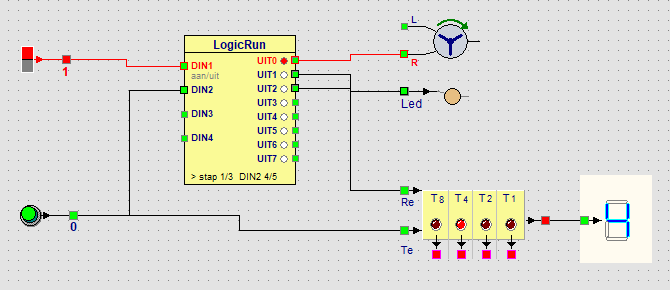
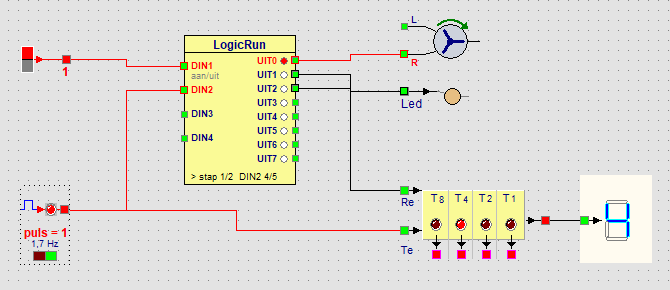
Impulsgenerator met instelbare frequentie, les 14 automatisch
- impulsgenerator: frequentie via rechtsklik (0,5 - 5 Hz), op het
  onderdeel getoond en als extra veld in de .lpl bewaard
- les 14: impulsgenerator in plaats van drukknop, programma in 2 stappen
- LogicRun: "N pulsen" gaat verder als de laatste puls voorbij is
- teller: reset gaat voor op een telpuls in dezelfde simulatieronde
- help in 4 talen

diff --git a/projects/LogicCEF/helpsrc/fr/les14.html b/projects/LogicCEF/helpsrc/fr/les14.html
@@ -6,7 +6,7 @@
 
   <p><a class="open" href="../../panels/lessen/les14-inpakmachine.lpl">&#9654; Ouvrir cet exemple</a></p>
   <figure>
-    <img src="../img/les14-inpakmachine.png" alt="Emballeuse avec LogicRun, moteur, LED, compteur et afficheur">
+    <img src="../img/les14-inpakmachine.png" alt="Emballeuse avec générateur d'impulsions, LogicRun, moteur, LED, compteur et afficheur">
     <figcaption>Le tapis tourne ; 4 boîtes ont déjà été comptées.</figcaption>
   </figure>
 
@@ -14,9 +14,9 @@
   <ul>
     <li>Un <a href="invoer.html#schakelaar">interrupteur</a> sur <b>DIN1</b> (fonction <b>actif/inactif</b>) : la machine
       en marche ou à l&rsquo;arrêt.</li>
-    <li>Un <a href="invoer.html#drukknop">bouton-poussoir</a> : chaque appui est une <b>boîte</b> qui passe. Le bouton a
-      deux fils : vers <b>DIN2</b> de LogicRun et vers <b>Te</b> du <a href="verwerking.html#teller">compteur</a>.
-      Une sortie peut avoir plusieurs fils.</li>
+    <li>Un <a href="invoer.html#puls">générateur d&rsquo;impulsions</a> : chaque impulsion est une <b>boîte</b> qui passe,
+      toute seule, sans rien presser. Le générateur a deux fils : vers <b>DIN2</b> de LogicRun et vers <b>Te</b> du
+      <a href="verwerking.html#teller">compteur</a>. Une sortie peut avoir plusieurs fils.</li>
     <li>Le <a href="logicrun.html">bloc LogicRun</a> avec trois sorties :
       <b>UIT0</b> vers <b>R</b> du <a href="uitvoer.html#motor">moteur</a> (le tapis roulant),
       <b>UIT1</b> vers une <a href="uitvoer.html#led">LED</a> orange (emballage) et
@@ -28,30 +28,33 @@
   <table>
     <tr><th>Pas</th><th>Actif</th><th>Que se passe-t-il ?</th><th>Combien de temps ?</th></tr>
     <tr><td>1</td><td>UIT0</td><td>le tapis tourne</td><td><b>attendre 5 x DIN2</b> : jusqu&rsquo;à ce que 5 boîtes soient passées</td></tr>
-    <tr><td>2</td><td>UIT1</td><td>le tapis s&rsquo;arrête, la LED est allumée : emballage</td><td>4 x 500&nbsp;ms = 2 secondes</td></tr>
-    <tr><td>3</td><td>UIT2</td><td>le compteur revient à 0</td><td>1 x 500&nbsp;ms</td></tr>
+    <tr><td>2</td><td>UIT1 + UIT2</td><td>le tapis s&rsquo;arrête, la LED est allumée (emballage) et le compteur est à 0</td><td>4 x 500&nbsp;ms = 2 secondes</td></tr>
   </table>
   <p>Le pas 1 n&rsquo;a pas de durée fixe : la colonne <b>attendre</b> indique <b>5 x DIN2</b>. Le programme compte les
-  impulsions sur DIN2 et ne continue qu&rsquo;à la cinquième (voir <a href="logicrun.html#wacht">Attendre</a>). En haut de
-  la fenêtre et en bas du bloc, vous voyez combien ont déjà été comptées, par exemple <i>DIN2 4/5</i>.</p>
+  impulsions sur DIN2 et continue dès que la cinquième impulsion est terminée (voir <a href="logicrun.html#wacht">Attendre</a>).
+  En haut de la fenêtre et en bas du bloc, vous voyez combien ont déjà été comptées, par exemple <i>DIN2 4/5</i>.</p>
+  <p>Au pas 2, <b>Re</b> du compteur est haut tout le temps. Tant que Re est haut, le compteur reste à 0 : les impulsions
+  que le générateur donne entre-temps ne sont pas comptées. Ainsi, le compteur recommence proprement à 1 avec la boîte
+  suivante.</p>
 
   <h2>Essayez</h2>
   <ol class="steps">
     <li>Lancez la simulation et fermez l&rsquo;interrupteur : le tapis tourne.</li>
-    <li>Appuyez cinq fois sur le bouton-poussoir. L&rsquo;afficheur compte.</li>
-    <li>Après la cinquième boîte, le tapis s&rsquo;arrête et la LED s&rsquo;allume pendant 2 secondes. Ensuite, le
-      compteur revient à 0 et le tapis tourne à nouveau.</li>
+    <li>Cliquez sur le petit bouton sous le générateur d&rsquo;impulsions : les boîtes arrivent. L&rsquo;afficheur compte.</li>
+    <li>Après la cinquième boîte, le tapis s&rsquo;arrête, la LED s&rsquo;allume pendant 2 secondes et l&rsquo;afficheur
+      indique 0. Ensuite, le tapis tourne à nouveau et le comptage recommence.</li>
+    <li>Ouvrez l&rsquo;interrupteur : la machine s&rsquo;arrête.</li>
   </ol>
 
   <h2>Exercice</h2>
   <p>Faites des boîtes de 3 au lieu de 5. Faites ensuite redémarrer le tapis seulement quand quelqu&rsquo;un appuie sur un
-  deuxième bouton-poussoir <b>prêt</b>.</p>
+  bouton-poussoir <b>prêt</b>.</p>
   <details>
     <summary>Solution</summary>
     <p>Dans le pas 1, cliquez sur <b>5 x DIN2</b>, choisissez <b>Jusqu&rsquo;à un nombre d&rsquo;impulsions</b> &rsaquo;
-    <b>DIN2</b> et entrez 3. Ajoutez après le pas 3 un pas sans sorties et choisissez dans <b>attendre</b> :
-    <b>Jusqu&rsquo;à entrée active</b> &rsaquo; <b>DIN3</b>. Placez un deuxième bouton-poussoir sur le panneau et reliez-le
-    à DIN3. Laissez DIN3 sur <b>-</b> dans les fonctions des entrées.</p>
+    <b>DIN2</b> et entrez 3. Ajoutez après le pas 2 un pas avec seulement <b>UIT2</b> actif (le compteur reste alors à 0)
+    et choisissez dans <b>attendre</b> : <b>Jusqu&rsquo;à entrée active</b> &rsaquo; <b>DIN3</b>. Placez un bouton-poussoir
+    sur le panneau et reliez-le à DIN3. Laissez DIN3 sur <b>-</b> dans les fonctions des entrées.</p>
   </details>
 
   <div class="pager"><a href="les13.html">&larr; Leçon 13 : Commander un moteur</a><a href="leerpad.html">Parcours &rarr;</a></div>

diff --git a/projects/LogicCEF/helpsrc/de/les14.html b/projects/LogicCEF/helpsrc/de/les14.html
@@ -6,16 +6,16 @@
 
   <p><a class="open" href="../../panels/lessen/les14-inpakmachine.lpl">&#9654; Dieses Beispiel öffnen</a></p>
   <figure>
-    <img src="../img/les14-inpakmachine.png" alt="Verpackungsmaschine mit LogicRun, Motor, LED, Zähler und Anzeige">
+    <img src="../img/les14-inpakmachine.png" alt="Verpackungsmaschine mit Impulsgeber, LogicRun, Motor, LED, Zähler und Anzeige">
     <figcaption>Das Band läuft; 4 Kartons sind schon gezählt.</figcaption>
   </figure>
 
   <h2>Was sehen Sie?</h2>
   <ul>
     <li>Ein <a href="invoer.html#schakelaar">Schalter</a> an <b>DIN1</b> (Funktion <b>Ein/Aus</b>): die Maschine ein oder aus.</li>
-    <li>Ein <a href="invoer.html#drukknop">Taster</a>: jeder Druck ist ein <b>Karton</b>, der vorbeikommt. Der Taster hat
-      zwei Drähte: zu <b>DIN2</b> von LogicRun und zu <b>Te</b> des <a href="verwerking.html#teller">Zählers</a>.
-      Ein Ausgang darf mehrere Drähte haben.</li>
+    <li>Ein <a href="invoer.html#puls">Impulsgeber</a>: jeder Impuls ist ein <b>Karton</b>, der vorbeikommt, ganz von
+      selbst, ohne zu drücken. Der Impulsgeber hat zwei Drähte: zu <b>DIN2</b> von LogicRun und zu <b>Te</b> des
+      <a href="verwerking.html#teller">Zählers</a>. Ein Ausgang darf mehrere Drähte haben.</li>
     <li>Der <a href="logicrun.html">LogicRun-Block</a> mit drei Ausgängen:
       <b>UIT0</b> an <b>R</b> des <a href="uitvoer.html#motor">Motors</a> (das Förderband),
       <b>UIT1</b> an eine orange <a href="uitvoer.html#led">LED</a> (Verpacken) und
@@ -27,30 +27,33 @@
   <table>
     <tr><th>Schritt</th><th>Ein</th><th>Was passiert?</th><th>Wie lange?</th></tr>
     <tr><td>1</td><td>UIT0</td><td>das Band läuft</td><td><b>warten auf 5 x DIN2</b>: bis 5 Kartons vorbei sind</td></tr>
-    <tr><td>2</td><td>UIT1</td><td>das Band steht, die LED leuchtet: Verpacken</td><td>4 x 500&nbsp;ms = 2 Sekunden</td></tr>
-    <tr><td>3</td><td>UIT2</td><td>der Zähler geht zurück auf 0</td><td>1 x 500&nbsp;ms</td></tr>
+    <tr><td>2</td><td>UIT1 + UIT2</td><td>das Band steht, die LED leuchtet (Verpacken) und der Zähler steht auf 0</td><td>4 x 500&nbsp;ms = 2 Sekunden</td></tr>
   </table>
   <p>Schritt 1 hat keine feste Zeit: in der Spalte <b>warten auf</b> steht <b>5 x DIN2</b>. Das Programm zählt die Impulse
-  an DIN2 und geht erst beim fünften weiter (siehe <a href="logicrun.html#wacht">Warten</a>). Oben im Fenster und unten
-  im Block sehen Sie, wie viele schon gezählt sind, zum Beispiel <i>DIN2 4/5</i>.</p>
+  an DIN2 und geht weiter, sobald der fünfte Impuls vorbei ist (siehe <a href="logicrun.html#wacht">Warten</a>). Oben im
+  Fenster und unten im Block sehen Sie, wie viele schon gezählt sind, zum Beispiel <i>DIN2 4/5</i>.</p>
+  <p>In Schritt 2 ist <b>Re</b> des Zählers die ganze Zeit hoch. Solange Re hoch ist, bleibt der Zähler auf 0: die Impulse,
+  die der Impulsgeber in der Zwischenzeit gibt, zählen nicht mit. So beginnt der Zähler beim nächsten Karton wieder sauber
+  bei 1.</p>
 
   <h2>Probieren Sie es</h2>
   <ol class="steps">
     <li>Starten Sie die Simulation und schalten Sie den Schalter ein: das Band läuft.</li>
-    <li>Drücken Sie fünfmal den Taster. Die Anzeige zählt mit.</li>
-    <li>Nach dem fünften Karton hält das Band an und die LED leuchtet 2 Sekunden. Danach geht der Zähler zurück auf 0 und
-      das Band läuft wieder.</li>
+    <li>Klicken Sie auf den kleinen Knopf unter dem Impulsgeber: die Kartons kommen. Die Anzeige zählt mit.</li>
+    <li>Nach dem fünften Karton hält das Band an, die LED leuchtet 2 Sekunden und die Anzeige steht auf 0. Danach läuft
+      das Band wieder und das Zählen beginnt von vorn.</li>
+    <li>Schalten Sie den Schalter aus: die Maschine hält an.</li>
   </ol>
 
   <h2>Aufgabe</h2>
-  <p>Machen Sie Kartons zu 3 statt zu 5. Lassen Sie das Band danach erst wieder starten, wenn jemand einen zweiten Taster
+  <p>Machen Sie Kartons zu 3 statt zu 5. Lassen Sie das Band danach erst wieder starten, wenn jemand einen Taster
   <b>fertig</b> drückt.</p>
   <details>
     <summary>Lösung</summary>
     <p>Klicken Sie in Schritt 1 auf <b>5 x DIN2</b>, wählen Sie <b>Bis Anzahl Impulse am Eingang</b> &rsaquo; <b>DIN2</b>
-    und geben Sie 3 ein. Fügen Sie nach Schritt 3 einen Schritt ohne Ausgänge ein und wählen Sie bei <b>warten auf</b>:
-    <b>Bis Eingang ein</b> &rsaquo; <b>DIN3</b>. Setzen Sie einen zweiten Taster auf das Panel und verbinden Sie ihn mit
-    DIN3. Lassen Sie DIN3 bei den Eingangsfunktionen auf <b>-</b>.</p>
+    und geben Sie 3 ein. Fügen Sie nach Schritt 2 einen Schritt ein, in dem nur <b>UIT2</b> an ist (dann bleibt der Zähler
+    auf 0), und wählen Sie bei <b>warten auf</b>: <b>Bis Eingang ein</b> &rsaquo; <b>DIN3</b>. Setzen Sie einen Taster auf
+    das Panel und verbinden Sie ihn mit DIN3. Lassen Sie DIN3 bei den Eingangsfunktionen auf <b>-</b>.</p>
   </details>
 
   <div class="pager"><a href="les13.html">&larr; Lektion 13: Einen Motor steuern</a><a href="leerpad.html">Lernpfad &rarr;</a></div>

diff --git a/projects/LogicCEF/helpsrc/en/les14.html b/projects/LogicCEF/helpsrc/en/les14.html
@@ -6,16 +6,16 @@
 
   <p><a class="open" href="../../panels/lessen/les14-inpakmachine.lpl">&#9654; Open this example</a></p>
   <figure>
-    <img src="../img/les14-inpakmachine.png" alt="Packing machine with LogicRun, motor, LED, counter and display">
+    <img src="../img/les14-inpakmachine.png" alt="Packing machine with pulse generator, LogicRun, motor, LED, counter and display">
     <figcaption>The belt is running; 4 boxes have been counted already.</figcaption>
   </figure>
 
   <h2>What do you see?</h2>
   <ul>
     <li>A <a href="invoer.html#schakelaar">switch</a> on <b>DIN1</b> (function <b>on/off</b>): the machine on or off.</li>
-    <li>A <a href="invoer.html#drukknop">push button</a>: each press is a <b>box</b> passing by. The push button has
-      two wires: to <b>DIN2</b> of LogicRun and to <b>Te</b> of the <a href="verwerking.html#teller">counter</a>.
-      An output may have several wires.</li>
+    <li>A <a href="invoer.html#puls">pulse generator</a>: each pulse is a <b>box</b> passing by, all by itself, without
+      pressing anything. The generator has two wires: to <b>DIN2</b> of LogicRun and to <b>Te</b> of the
+      <a href="verwerking.html#teller">counter</a>. An output may have several wires.</li>
     <li>The <a href="logicrun.html">LogicRun block</a> with three outputs:
       <b>UIT0</b> to <b>R</b> of the <a href="uitvoer.html#motor">motor</a> (the conveyor belt),
       <b>UIT1</b> to an orange <a href="uitvoer.html#led">LED</a> (packing) and
@@ -27,29 +27,32 @@
   <table>
     <tr><th>Step</th><th>On</th><th>What happens?</th><th>How long?</th></tr>
     <tr><td>1</td><td>UIT0</td><td>the belt runs</td><td><b>wait for 5 x DIN2</b>: until 5 boxes have passed</td></tr>
-    <tr><td>2</td><td>UIT1</td><td>the belt stops, the LED is lit: packing</td><td>4 x 500&nbsp;ms = 2 seconds</td></tr>
-    <tr><td>3</td><td>UIT2</td><td>the counter goes back to 0</td><td>1 x 500&nbsp;ms</td></tr>
+    <tr><td>2</td><td>UIT1 + UIT2</td><td>the belt stops, the LED is lit (packing) and the counter is at 0</td><td>4 x 500&nbsp;ms = 2 seconds</td></tr>
   </table>
   <p>Step 1 has no fixed time: the <b>wait for</b> column shows <b>5 x DIN2</b>. The program counts the pulses on DIN2
-  and only continues at the fifth (see <a href="logicrun.html#wacht">Waiting</a>). At the top of the window and at the
-  bottom of the block you see how many have been counted, for example <i>DIN2 4/5</i>.</p>
+  and continues as soon as the fifth pulse is over (see <a href="logicrun.html#wacht">Waiting</a>). At the top of the
+  window and at the bottom of the block you see how many have been counted, for example <i>DIN2 4/5</i>.</p>
+  <p>In step 2, <b>Re</b> of the counter is high all the time. As long as Re is high, the counter stays at 0: the pulses
+  the generator gives in the meantime are not counted. So the counter neatly starts at 1 again with the next box.</p>
 
   <h2>Try it</h2>
   <ol class="steps">
     <li>Start the simulation and switch the switch on: the belt runs.</li>
-    <li>Press the push button five times. The display counts along.</li>
-    <li>After the fifth box the belt stops and the LED is lit for 2 seconds. Then the counter goes back to 0 and the
-      belt runs again.</li>
+    <li>Click the small button under the pulse generator: the boxes arrive. The display counts along.</li>
+    <li>After the fifth box the belt stops, the LED is lit for 2 seconds and the display shows 0. Then the belt runs
+      again and counting starts over.</li>
+    <li>Switch the switch off: the machine stops.</li>
   </ol>
 
   <h2>Exercise</h2>
-  <p>Make boxes of 3 instead of 5. Then make the belt only start again when someone presses a second push button
+  <p>Make boxes of 3 instead of 5. Then make the belt only start again when someone presses a push button
   <b>ready</b>.</p>
   <details>
     <summary>Solution</summary>
     <p>In step 1 click <b>5 x DIN2</b>, choose <b>Until number of pulses on input</b> &rsaquo; <b>DIN2</b> and enter 3.
-    Add a step after step 3 without outputs and choose in <b>wait for</b>: <b>Until input on</b> &rsaquo; <b>DIN3</b>.
-    Put a second push button on the panel and connect it to DIN3. Leave DIN3 on <b>-</b> in the input functions.</p>
+    Add a step after step 2 with only <b>UIT2</b> on (so the counter stays at 0) and choose in <b>wait for</b>:
+    <b>Until input on</b> &rsaquo; <b>DIN3</b>. Put a push button on the panel and connect it to DIN3. Leave DIN3 on
+    <b>-</b> in the input functions.</p>
   </details>
 
   <div class="pager"><a href="les13.html">&larr; Lesson 13: Controlling a motor</a><a href="leerpad.html">Learning path &rarr;</a></div>

diff --git a/projects/LogicCEF/helpsrc/nl/les14.html b/projects/LogicCEF/helpsrc/nl/les14.html
@@ -6,16 +6,16 @@
 
   <p><a class="open" href="../../panels/lessen/les14-inpakmachine.lpl">&#9654; Open dit voorbeeld</a></p>
   <figure>
-    <img src="../img/les14-inpakmachine.png" alt="Inpakmachine met LogicRun, motor, led, teller en display">
+    <img src="../img/les14-inpakmachine.png" alt="Inpakmachine met impulsgenerator, LogicRun, motor, led, teller en display">
     <figcaption>De band draait; er zijn al 4 dozen geteld.</figcaption>
   </figure>
 
   <h2>Wat zie je?</h2>
   <ul>
     <li>Een <a href="invoer.html#schakelaar">schakelaar</a> op <b>DIN1</b> (functie <b>aan/uit</b>): de machine aan of uit.</li>
-    <li>Een <a href="invoer.html#drukknop">drukknop</a>: elke druk is een <b>doos</b> die voorbij komt. De drukknop heeft
-      twee draden: naar <b>DIN2</b> van LogicRun en naar <b>Te</b> van de <a href="verwerking.html#teller">teller</a>.
-      Een uitgang mag meerdere draden hebben.</li>
+    <li>Een <a href="invoer.html#puls">impulsgenerator</a>: elke puls is een <b>doos</b> die voorbij komt, vanzelf,
+      zonder dat je moet drukken. De generator heeft twee draden: naar <b>DIN2</b> van LogicRun en naar <b>Te</b> van de
+      <a href="verwerking.html#teller">teller</a>. Een uitgang mag meerdere draden hebben.</li>
     <li>Het <a href="logicrun.html">LogicRun-blok</a> met drie uitgangen:
       <b>UIT0</b> naar <b>R</b> van de <a href="uitvoer.html#motor">motor</a> (de lopende band),
       <b>UIT1</b> naar een oranje <a href="uitvoer.html#led">led</a> (inpakken) en
@@ -27,29 +27,32 @@
   <table>
     <tr><th>Stap</th><th>Aan</th><th>Wat gebeurt er?</th><th>Hoe lang?</th></tr>
     <tr><td>1</td><td>UIT0</td><td>de band draait</td><td><b>wacht op 5 x DIN2</b>: tot er 5 dozen voorbij zijn</td></tr>
-    <tr><td>2</td><td>UIT1</td><td>de band staat stil, de led brandt: inpakken</td><td>4 x 500&nbsp;ms = 2 seconden</td></tr>
-    <tr><td>3</td><td>UIT2</td><td>de teller gaat terug naar 0</td><td>1 x 500&nbsp;ms</td></tr>
+    <tr><td>2</td><td>UIT1 + UIT2</td><td>de band staat stil, de led brandt (inpakken) en de teller staat op 0</td><td>4 x 500&nbsp;ms = 2 seconden</td></tr>
   </table>
   <p>Stap 1 duurt geen vaste tijd: in de kolom <b>wacht op</b> staat <b>5 x DIN2</b>. Het programma telt de pulsen
-  op DIN2 en gaat pas verder bij de vijfde (zie <a href="logicrun.html#wacht">Wachten</a>). Bovenaan in het venster en
-  onderaan het blok zie je hoeveel er al geteld zijn, bijvoorbeeld <i>DIN2 4/5</i>.</p>
+  op DIN2 en gaat verder zodra de vijfde puls voorbij is (zie <a href="logicrun.html#wacht">Wachten</a>). Bovenaan in
+  het venster en onderaan het blok zie je hoeveel er al geteld zijn, bijvoorbeeld <i>DIN2 4/5</i>.</p>
+  <p>In stap 2 is <b>Re</b> van de teller de hele tijd hoog. Zolang Re hoog is, blijft de teller op 0: de pulsen die
+  de generator intussen geeft, tellen niet mee. Zo begint de teller bij de volgende doos weer netjes bij 1.</p>
 
   <h2>Probeer het</h2>
   <ol class="steps">
     <li>Start de simulatie en zet de schakelaar aan: de band draait.</li>
-    <li>Druk vijf keer op de drukknop. Het display telt mee.</li>
-    <li>Na de vijfde doos stopt de band en brandt de led 2 seconden. Daarna gaat de teller terug naar 0 en draait de
-      band weer.</li>
+    <li>Klik op het knopje onder de impulsgenerator: de dozen komen. Het display telt mee.</li>
+    <li>Na de vijfde doos stopt de band, brandt de led 2 seconden en staat het display op 0. Daarna draait de band weer
+      en begint het tellen opnieuw.</li>
+    <li>Zet de schakelaar uit: de machine stopt.</li>
   </ol>
 
   <h2>Opdracht</h2>
-  <p>Maak dozen van 3 in plaats van 5. Laat de band daarna pas opnieuw starten als iemand op een tweede drukknop
+  <p>Maak dozen van 3 in plaats van 5. Laat de band daarna pas opnieuw starten als iemand op een drukknop
   <b>klaar</b> drukt.</p>
   <details>
     <summary>Oplossing</summary>
     <p>Klik in stap 1 op <b>5 x DIN2</b> en kies <b>Tot aantal pulsen op ingang</b> &rsaquo; <b>DIN2</b> en vul 3 in.
-    Voeg na stap 3 een stap toe zonder uitgangen en kies bij <b>wacht op</b>: <b>Tot ingang aan</b> &rsaquo; <b>DIN3</b>.
-    Zet een tweede drukknop op het paneel en verbind die met DIN3. Laat DIN3 bij de ingangsfuncties op <b>-</b> staan.</p>
+    Voeg na stap 2 een stap toe met alleen <b>UIT2</b> aan (dan blijft de teller op 0) en kies bij <b>wacht op</b>:
+    <b>Tot ingang aan</b> &rsaquo; <b>DIN3</b>. Zet een drukknop op het paneel en verbind die met DIN3. Laat DIN3 bij de
+    ingangsfuncties op <b>-</b> staan.</p>
   </details>
 
   <div class="pager"><a href="les13.html">&larr; Les 13: Een motor sturen</a><a href="leerpad.html">Leerpad &rarr;</a></div>

diff --git a/projects/LogicCEF/helpsrc/fr/invoer.html b/projects/LogicCEF/helpsrc/fr/invoer.html
@@ -29,6 +29,10 @@
   <p>Donne une impulsion à intervalles réguliers&nbsp;: la sortie s&rsquo;active et se désactive environ toutes les
   0,3&nbsp;seconde. Cliquez sur le bouton du bas pour démarrer le générateur&nbsp;; cliquez à nouveau pour l&rsquo;arrêter.
   Le voyant en haut clignote avec les impulsions.</p>
+  <p><b>Fréquence&nbsp;:</b> cliquez avec le bouton droit sur le générateur et choisissez <b>Fréquence</b>&nbsp;: 0,5&nbsp;Hz
+  (une impulsion toutes les 2&nbsp;s), 1&nbsp;Hz, 1,7&nbsp;Hz (par défaut), 2,5&nbsp;Hz ou 5&nbsp;Hz. La fréquence choisie est
+  affichée en petit sur le générateur et enregistrée dans le panneau. Vous pouvez aussi la changer pendant que le
+  générateur tourne.</p>
   <p>Idéal pour faire tourner un <a href="verwerking.html#teller">compteur</a> tout seul ou faire clignoter une lampe.</p>
 
   <h2 id="sensor"><img src="../img/pal-lichtsensor.png" class="ico" alt="">Capteur de lumière</h2>

diff --git a/projects/LogicCEF/helpsrc/de/invoer.html b/projects/LogicCEF/helpsrc/de/invoer.html
@@ -29,6 +29,9 @@
   <p>Gibt regelmäßig einen Impuls: Der Ausgang geht etwa alle 0,3 Sekunden ein und wieder aus.
   Klicken Sie auf den Knopf unten, um den Impulsgeber zu starten; klicken Sie erneut, um ihn zu stoppen.
   Die Leuchte oben blinkt im Takt der Impulse.</p>
+  <p><b>Frequenz:</b> Klicken Sie mit der rechten Maustaste auf den Impulsgeber und wählen Sie <b>Frequenz</b>: 0,5&nbsp;Hz
+  (alle 2&nbsp;s ein Impuls), 1&nbsp;Hz, 1,7&nbsp;Hz (Standard), 2,5&nbsp;Hz oder 5&nbsp;Hz. Die gewählte Frequenz steht klein auf
+  dem Impulsgeber und wird im Panel gespeichert. Sie können sie auch ändern, während der Impulsgeber läuft.</p>
   <p>Ideal, um einen <a href="verwerking.html#teller">Zähler</a> selbstständig laufen oder eine Lampe blinken zu lassen.</p>
 
   <h2 id="sensor"><img src="../img/pal-lichtsensor.png" class="ico" alt="">Lichtsensor</h2>

diff --git a/projects/LogicCEF/helpsrc/nl/invoer.html b/projects/LogicCEF/helpsrc/nl/invoer.html
@@ -29,6 +29,9 @@
   <p>Geeft regelmatig een puls: de uitgang gaat steeds aan en weer uit, ongeveer om de 0,3 seconde.
   Klik op de knop onderaan om de generator te starten; klik er opnieuw op om hem te stoppen.
   Het lampje bovenaan knippert mee met de pulsen.</p>
+  <p><b>Frequentie:</b> klik met de rechtermuisknop op de generator en kies <b>Frequentie</b>: 0,5&nbsp;Hz (elke 2&nbsp;s een puls),
+  1&nbsp;Hz, 1,7&nbsp;Hz (standaard), 2,5&nbsp;Hz of 5&nbsp;Hz. De gekozen frequentie staat klein op de generator en wordt
+  in het paneel bewaard. Je kan ze ook wijzigen terwijl de generator loopt.</p>
   <p>Ideaal om een <a href="verwerking.html#teller">teller</a> automatisch te laten lopen of een lamp te laten knipperen.</p>
 
   <h2 id="sensor"><img src="../img/pal-lichtsensor.png" class="ico" alt="">Lichtsensor</h2>

diff --git a/projects/LogicCEF/helpsrc/en/invoer.html b/projects/LogicCEF/helpsrc/en/invoer.html
@@ -28,6 +28,9 @@
   <p>Gives a pulse at regular intervals: the output keeps switching on and off, about every 0.3 seconds.
   Click the button at the bottom to start the generator; click it again to stop it.
   The lamp at the top blinks with the pulses.</p>
+  <p><b>Frequency:</b> right-click the generator and choose <b>Frequency</b>: 0.5&nbsp;Hz (a pulse every 2&nbsp;s),
+  1&nbsp;Hz, 1.7&nbsp;Hz (default), 2.5&nbsp;Hz or 5&nbsp;Hz. The chosen frequency is shown small on the generator and is
+  saved in the panel. You can also change it while the generator is running.</p>
   <p>Ideal for making a <a href="verwerking.html#teller">counter</a> run by itself or a lamp blink.</p>
 
   <h2 id="sensor"><img src="../img/pal-lichtsensor.png" class="ico" alt="">Light sensor</h2>
